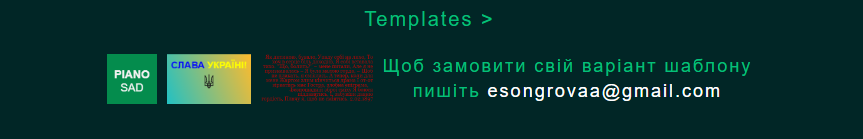
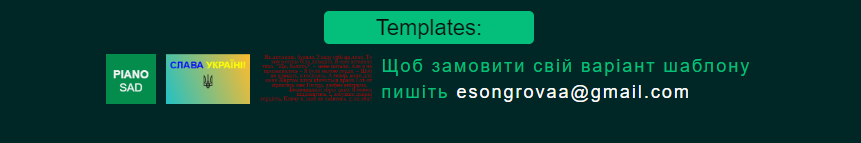
Change readme 7

Changed region(s): [[0.1208, 0.3741, 0.8757, 0.7482], [0.3624, 0.0576, 0.6341, 0.3165], [0.2114, 0.518, 0.2718, 0.6331]]

diff --git a/src/css/style.css b/src/css/style.css
@@ -210,9 +210,9 @@ svg {
 	transition: all 300ms cubic-bezier(.23, 1, 0.32, 1);
 	will-change: transform;
 	min-width: 210px;
+	max-width: 250px;
 	border: none;
 	border-radius: 5px;
-	/* margin-bottom: 430px; */
 }
 
 .button-27:hover {
@@ -239,30 +239,18 @@ h2 {
 
 .templates {
 	padding: 20px;
-	text-align: center;
+	display: flex;
+	flex-direction: column;
+	justify-content: center;
+	align-items: center;
+	/* text-align: center; */
 }
 
-
-.templates__text:hover{
-	box-shadow: rgba(0, 0, 0, 0.25) 0 8px 15px;
-	transform: translateY(-2px);
-}
-
-.exsemple:hover{	
-	box-shadow: rgba(0, 0, 0, 0.25) 0 8px 15px;
-	transform: translateY(-2px);
-}
-
-.templates__text {
-	font-size: 20px;
-	color: rgba(4, 191, 123, 1);
-}
 
 .templates__image {
 	display: flex;
 	gap: 10px;
 	justify-content: center;
-	/* border: 3px solid black; */
 	padding: 10px;
 }
 
@@ -273,6 +261,11 @@ h2 {
 
 a {
 	color: white;
+}
+
+.exsemple:hover {
+	box-shadow: rgba(0, 0, 0, 0.25) 0 8px 15px;
+	transform: translateY(-2px);
 }
 
 

diff --git a/index.html b/index.html
@@ -74,8 +74,7 @@
 		</div>
 	</div>
 	<div class="templates">
-		<p class="templates__text" onclick="showTempletes()">Templates:</p>
-		<!-- <p>&#62</p> -->
+		<button class="button-27" onclick="showTempletes()">Templates:</button>
 		<div class="templates__image" id="templatesInfa" style="display: none">
 			<div><img src="./src/image/exsemple.png" class="exsemple" onclick="exsempleOne()"></div>
 			<div><img src="./src/image/exsempleTwo.png" class="exsemple" onclick="exsempleTwo()"></div>
